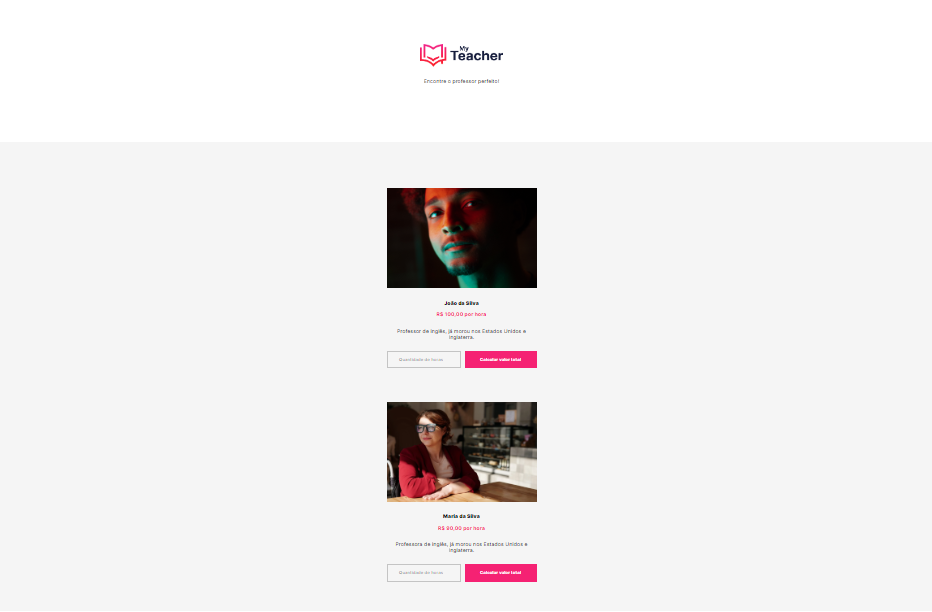
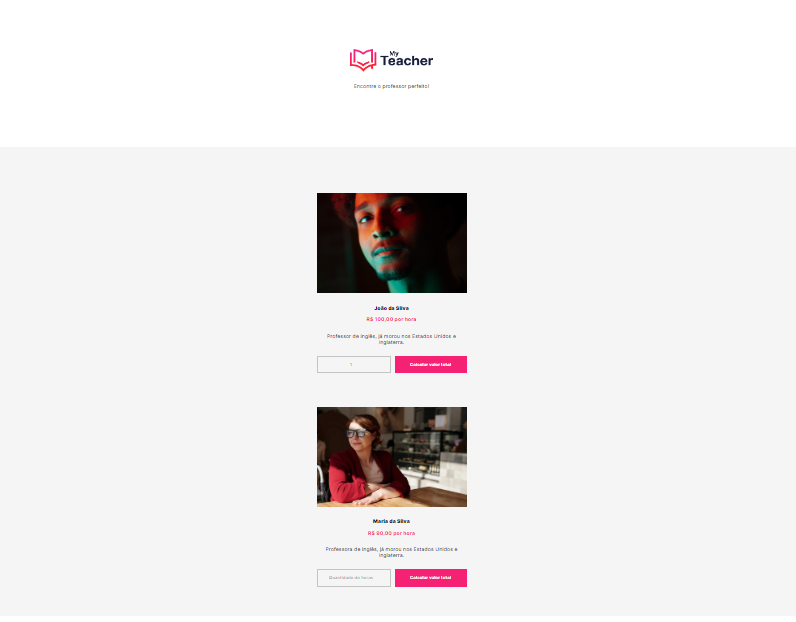
commit

diff --git a/TrilhaIniciante/myteacher/index.html b/TrilhaIniciante/myteacher/index.html
@@ -25,7 +25,8 @@
         Professor de inglês, já morou nos Estados Unidos e Inglaterra.
       </p>
       <form class="teacher-contract">
-        <input type="number" placeholder="Quantidade de horas" class="teacher-contract-hours">
+        <input name="price" type="hidden" value="100" />
+        <input required min="1" max="3" name="hours" type="number" placeholder="Quantidade de horas" class="teacher-contract-hours">
         <button type="submit" class="teacher-contract-button">Calcular valor total</button>
       </form>
     </section>
@@ -37,10 +38,13 @@
         Professora de inglês, já morou nos Estados Unidos e Inglaterra.
       </p>
       <form class="teacher-contract">
-        <input type="number" placeholder="Quantidade de horas" class="teacher-contract-hours">
+        <input name="price" type="hidden" value="90" />
+        <input required min="1" max="3" name="hours" type="number" placeholder="Quantidade de horas" class="teacher-contract-hours">
         <button type="submit" class="teacher-contract-button">Calcular valor total</button>
       </form>
     </section>
   </main>
+
+  <script src="./static/js/script.js"></script>
 </body>
 </html>

diff --git a/TrilhaIniciante/myteacher/static/js/introducao.js b/TrilhaIniciante/myteacher/static/js/introducao.js
@@ -1,0 +1,46 @@
+// // Arrays
+// let notas = [10, 8.9, 7.3, 8.5]
+// console.log(notas)
+// console.log(notas[0])
+// console.log(notas[3])
+
+// notas[0] = 8.5
+// console.log(notas)
+
+// notas.push(9.1)
+// console.log(notas)
+
+// // Laços de repetição
+// let notas = [10, 8.9, 7.3, 8.5]
+
+// // For tradicional
+// for (let i = 0; i < 4; i++) {
+//   console.log(notas[i])
+// }
+// console.log("Teminou o for")
+
+// // For of
+// for (let nota of notas) {
+//   console.log(nota);
+// }
+// console.log("Terminou o for of")
+
+// // Objetos JavaScript
+// let aluno = {
+//   nome: "Cleyson Lima",
+//   idade: 26,
+//   notas: [10, 8.9, 7.3, 8.5],
+//   contato: {
+//     telefone: "(11) 99999-9999",
+//     email: "cleyson@mail.com"
+//   }
+// }
+// console.log(aluno)
+// console.log(aluno.nome)
+// console.log(aluno.notas[0])
+// console.log(aluno.contato.email)
+
+// // Manipulando o DOM
+// let elemento = document.getElementById("titulo")
+// console.log(elemento)
+// elemento.innerHTML = "Alterado via JS"

diff --git a/TrilhaIniciante/myteacher/static/js/script.js b/TrilhaIniciante/myteacher/static/js/script.js
@@ -1,0 +1,13 @@
+let teacherForms = document.getElementsByClassName("teacher-contract");
+for (let teacherForm of teacherForms) {
+  teacherForm.addEventListener("submit", function (event) {
+    event.preventDefault();
+
+    let price = teacherForm.price.value;
+    let hours = teacherForm.hours.value;
+    let total = price * hours;  
+    
+    alert("O valor total do contrato é de R$ " + total);
+  })
+}
+
